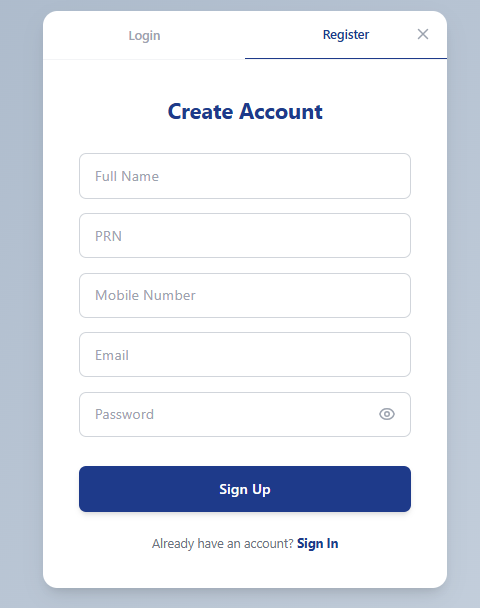
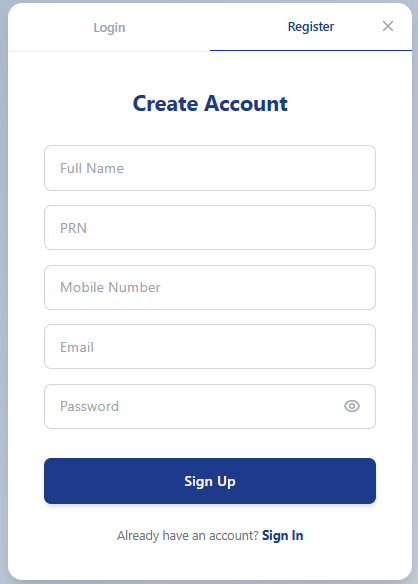
Add Project Documentation

diff --git a/README.md b/README.md
@@ -26,6 +26,10 @@ A Major Project developed as part of the B.Tech (CSE) curriculum.
 ## Student Login Page
 ![Student-Login-Page](src/main/webapp/image/Student-Login-Page.png)
 
+## Student Register Page
+![Student-Login-Page](src/main/webapp/image/Student-Register-Page.png)
+
+
 ## Student Profile Page
 ![Student-Login-Page](src/main/webapp/image/Student-Profile1.png)
 ![Student-Login-Page](src/main/webapp/image/Student-Profile2.png)
